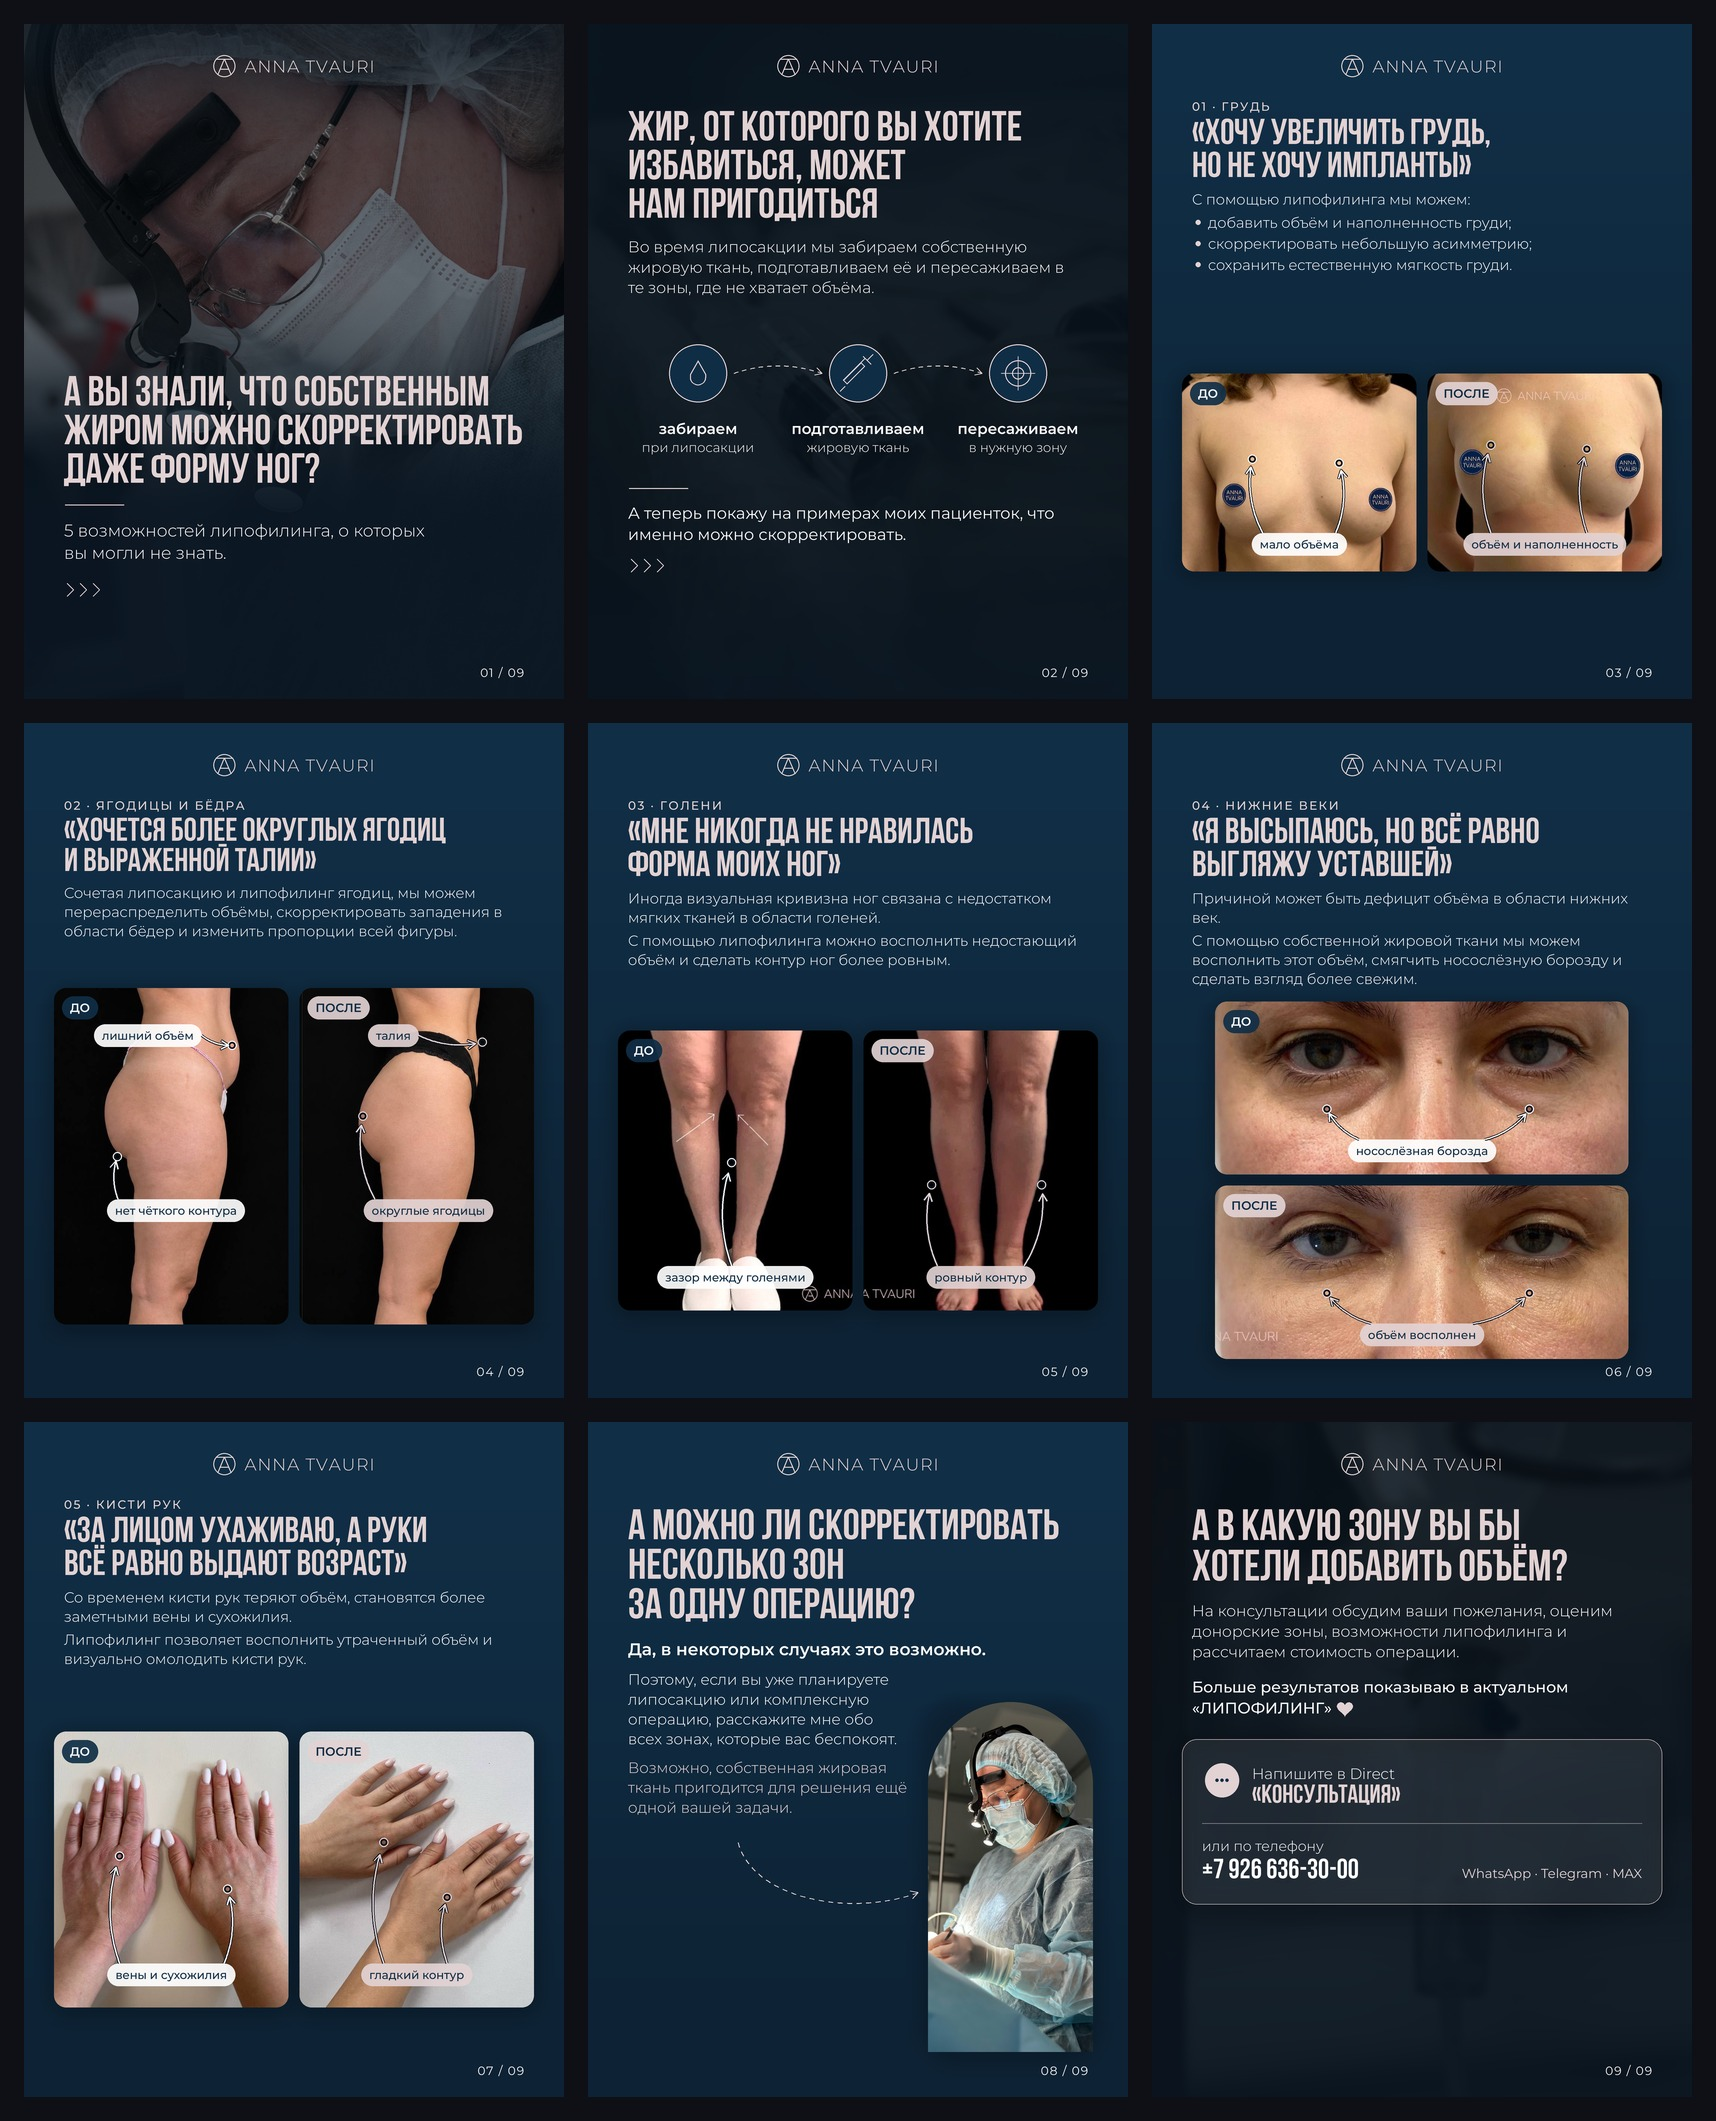
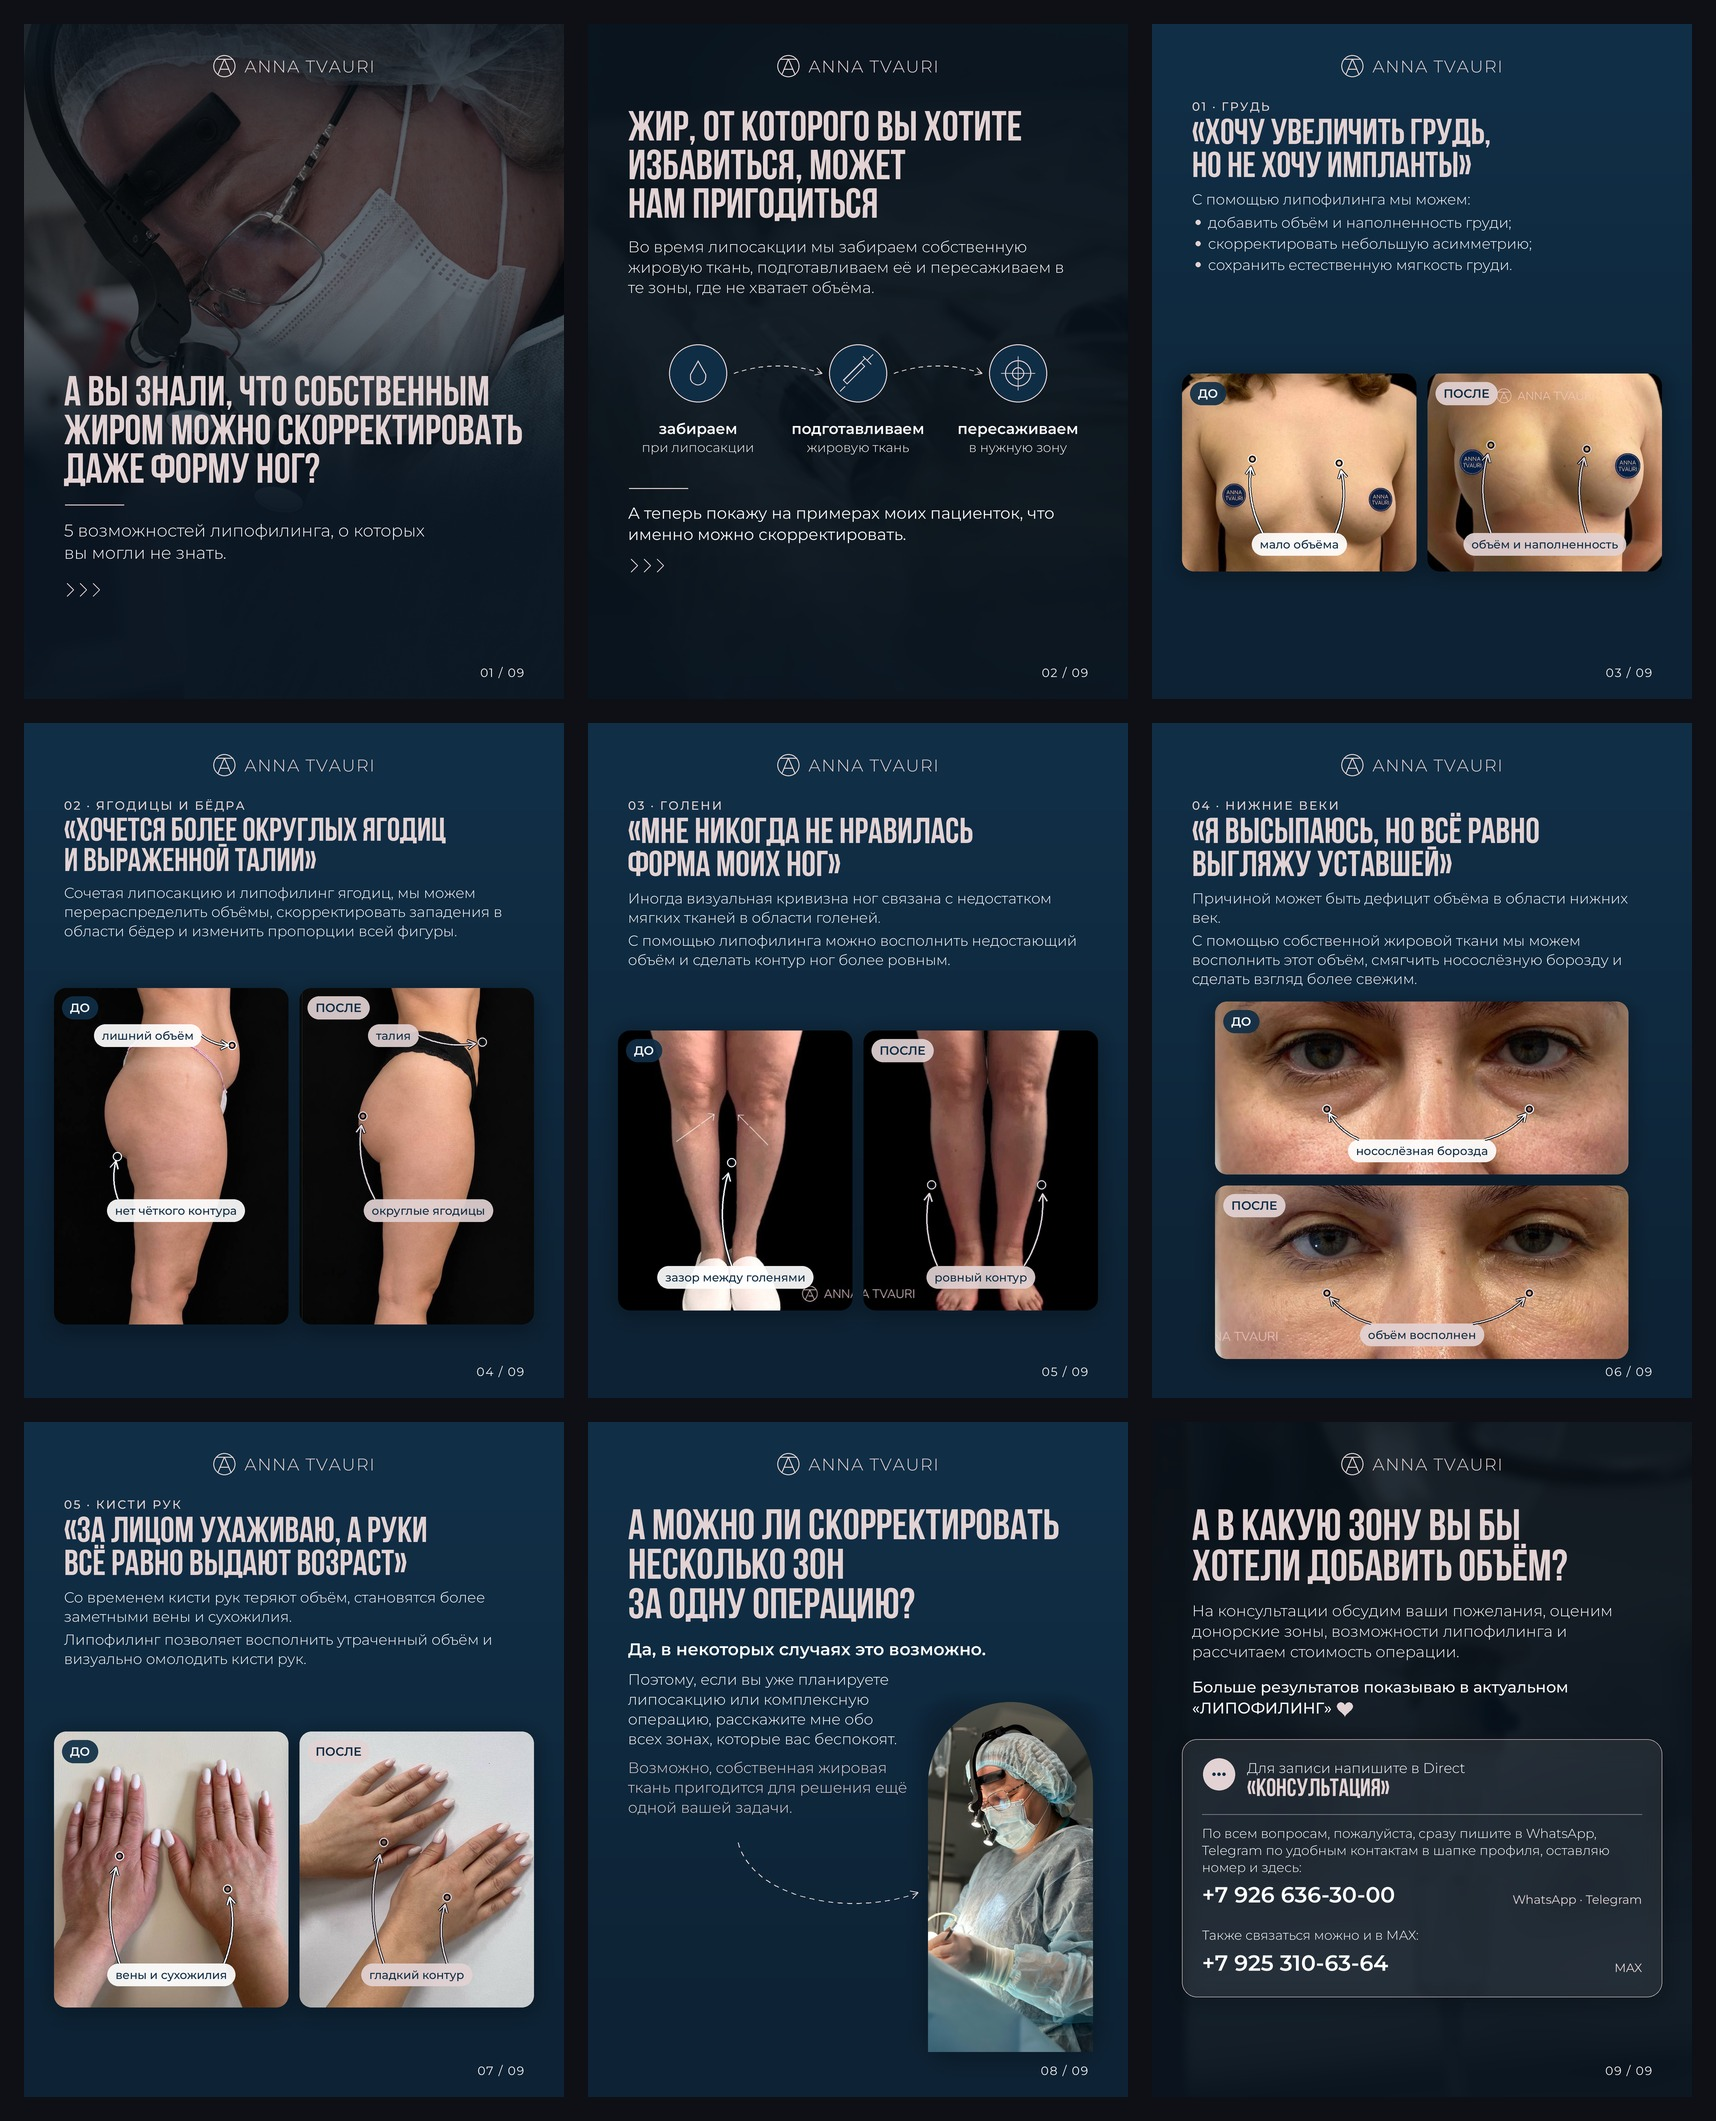
Lipofilling carousel slide 9: contact card with WhatsApp/Telegram and separate MAX number, phones in Montserrat
Claude-Session: https://claude.ai/code/session_01DLYcpYAewhkUMdYYshxueL

Changed region(s): [[0.6795, 0.8091, 0.9575, 0.9335]]

diff --git a/tools/post_lipofilling_9.py b/tools/post_lipofilling_9.py
@@ -301,14 +301,25 @@ def s9():
     for i, r in enumerate(rows): sl.text((hx, y + i * 42), r, f, WHITE)
     heart(sl, hx + f.getlength(rows[-1]) / S + 26, y + (len(rows) - 1) * 42 + 20, 16)
     y += len(rows) * 42 + 40
-    box = (60, y, 1020, y + 330); sl.shadow(box, 30, 20, 110); sl.rrect(box, 30, WHITE, 22, outline=POWDER, w=1.2)
-    icon_circle(sl, (box[0] + 80, box[1] + 82), "chat", 34)
-    sl.text((box[0] + 140, box[1] + 50), "Напишите в Direct", mont(30, 300), WHITE)
-    sl.text((box[0] + 140, box[1] + 88), "«КОНСУЛЬТАЦИЯ»", bebas(52), POWDER)
-    sl.poly([(box[0] + 40, box[1] + 168), (box[2] - 40, box[1] + 168)], POWDER, 1, 120)
-    sl.text((box[0] + 40, box[1] + 196), "или по телефону", mont(28, 300), WHITE, a=220)
-    sl.text((box[0] + 40, box[1] + 236), "+7 926 636-30-00", bebas(56), WHITE)
-    sl.text((box[2] - 40, box[1] + 252), "WhatsApp · Telegram · MAX", mont(26, 400), POWDER, "ra")
+    # contact card: Direct, then the WhatsApp/Telegram number and the separate MAX number
+    x, y0 = 100, y
+    t1 = ("По всем вопросам, пожалуйста, сразу пишите в WhatsApp, Telegram по удобным контактам "
+          "в шапке профиля, оставляю номер и здесь:")
+    n1 = len(wrap(t1, mont(26, 300), 840))
+    y_t1 = y0 + 172; y_p1 = y_t1 + n1 * 26 * 1.3 + 10
+    y_t2 = y_p1 + 92; y_p2 = y_t2 + 26 * 1.32 + 10
+    box = (60, y0, 1020, int(y_p2 + 96))
+    sl.shadow(box, 30, 20, 110); sl.rrect(box, 30, WHITE, 22, outline=POWDER, w=1.2)
+    icon_circle(sl, (x + 34, y0 + 70), "chat", 32)
+    sl.text((x + 90, y0 + 40), "Для записи напишите в Direct", mont(28, 300), WHITE)
+    sl.text((x + 90, y0 + 76), "«КОНСУЛЬТАЦИЯ»", bebas(50), POWDER)
+    sl.poly([(box[0] + 40, y0 + 150), (box[2] - 40, y0 + 150)], POWDER, 1, 120)
+    para(sl, x, y_t1, t1, 26, 300, WHITE, 840, 1.3)
+    sl.text((x, y_p1), "+7 926 636-30-00", mont(44, 600), WHITE)
+    sl.text((box[2] - 40, y_p1 + 22), "WhatsApp · Telegram", mont(24, 400), POWDER, "ra")
+    para(sl, x, y_t2, "Также связаться можно и в МАХ:", 26, 300, WHITE, 840)
+    sl.text((x, y_p2), "+7 925 310-63-64", mont(44, 600), WHITE)
+    sl.text((box[2] - 40, y_p2 + 22), "MAX", mont(24, 400), POWDER, "ra")
     counter(sl, 9)
     return sl.save("09.jpg")
 
